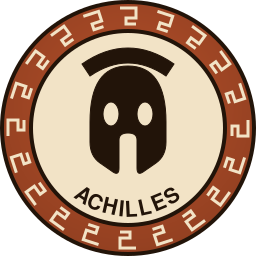
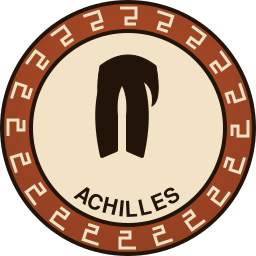
Hades badge + villain artwork wired and precached (SW v7)

Changed region(s): [[0.3125, 0.1562, 0.6875, 0.6875]]

diff --git a/sw.js b/sw.js
@@ -1,10 +1,11 @@
-const CACHE = 'ptrail-app-v6';
+const CACHE = 'ptrail-app-v7';
 const BADGE_NAMES = [
   'poseidon', 'zeus', 'athena', 'hermes', 'apollo', 'artemis', 'hera', 'ares',
   'hephaestus', 'aphrodite', 'demeter', 'dionysus',
   'odysseus', 'achilles', 'theseus', 'hercules', 'perseus', 'asclepius',
-  'guest', 'pantheon'
+  'guest', 'pantheon', 'hades'
 ];
+const VILLAIN_NAMES = ['sisyphus', 'sinis', 'sciron', 'procrustes', 'aegeus'];
 const ASSETS = [
   './',
   'index.html',
@@ -19,7 +20,8 @@ const ASSETS = [
   'manifest.json',
   'icons/icon-180.png',
   'icons/icon-512.png',
-  ...BADGE_NAMES.map(n => 'assets/badges/badge-' + n + '.svg')
+  ...BADGE_NAMES.map(n => 'assets/badges/badge-' + n + '.svg'),
+  ...VILLAIN_NAMES.map(n => 'assets/villains/villain-' + n + '.svg')
 ];
 
 self.addEventListener('install', e => {